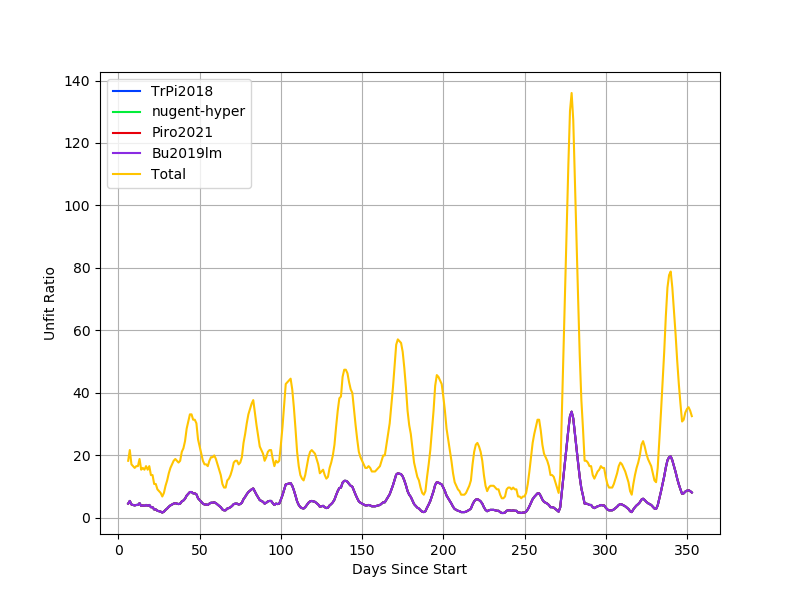
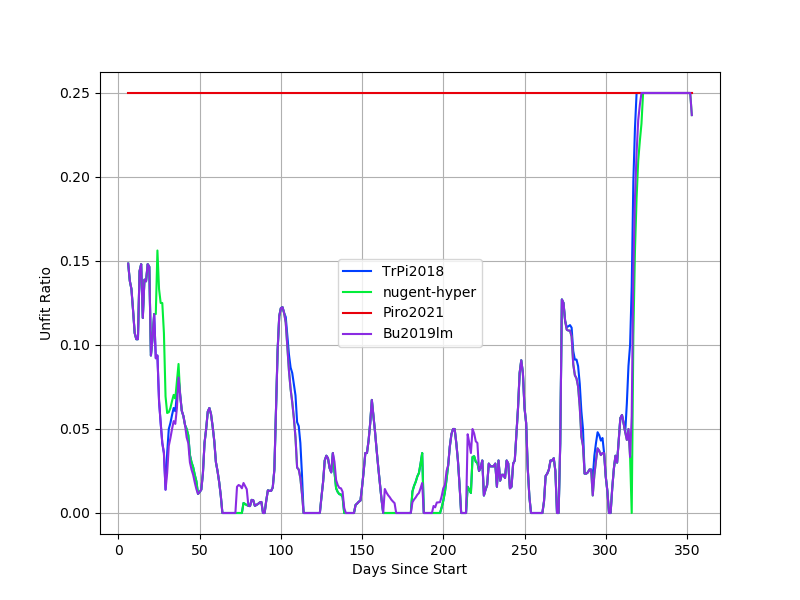
fixed? fracDailyUnfitRolling plot
I feel like the Piro2021 kinda throws it off.

OH WAIT these plots plot the fraction of unfit, so because Piro2021 has never worked, it will always be a quarter

diff --git a/stats.py b/stats.py
@@ -591,8 +591,9 @@ def plotUnfit(df, models= args.models, save=True): ## assumes use of dataframe
 
     ## plot rolling average of fraction of candidates that were not fit for each day
     fig, ax = plt.subplots(figsize=(8,6), facecolor='white')
-    for key, value in allfit.items():
-        ax.plot(dayCount, pd.Series(value).rolling(7).mean(), label=key)
+    for key, value in unfit.items(): ## is this the correct method for rolling average ratio?
+        fracValue =  pd.Series(value).rolling(7).mean()/pd.Series(allfit['Total']).rolling(7).mean()
+        ax.plot(dayCount, fracValue, label=key) if key != 'Total' else None
     ax.set_xlabel("Days Since Start")
     ax.set_ylabel('Unfit Ratio')
     #ax.set_title('Fraction of Unfit Candidates to Total \n (One Week Rolling Average)') ## should these have titles?
